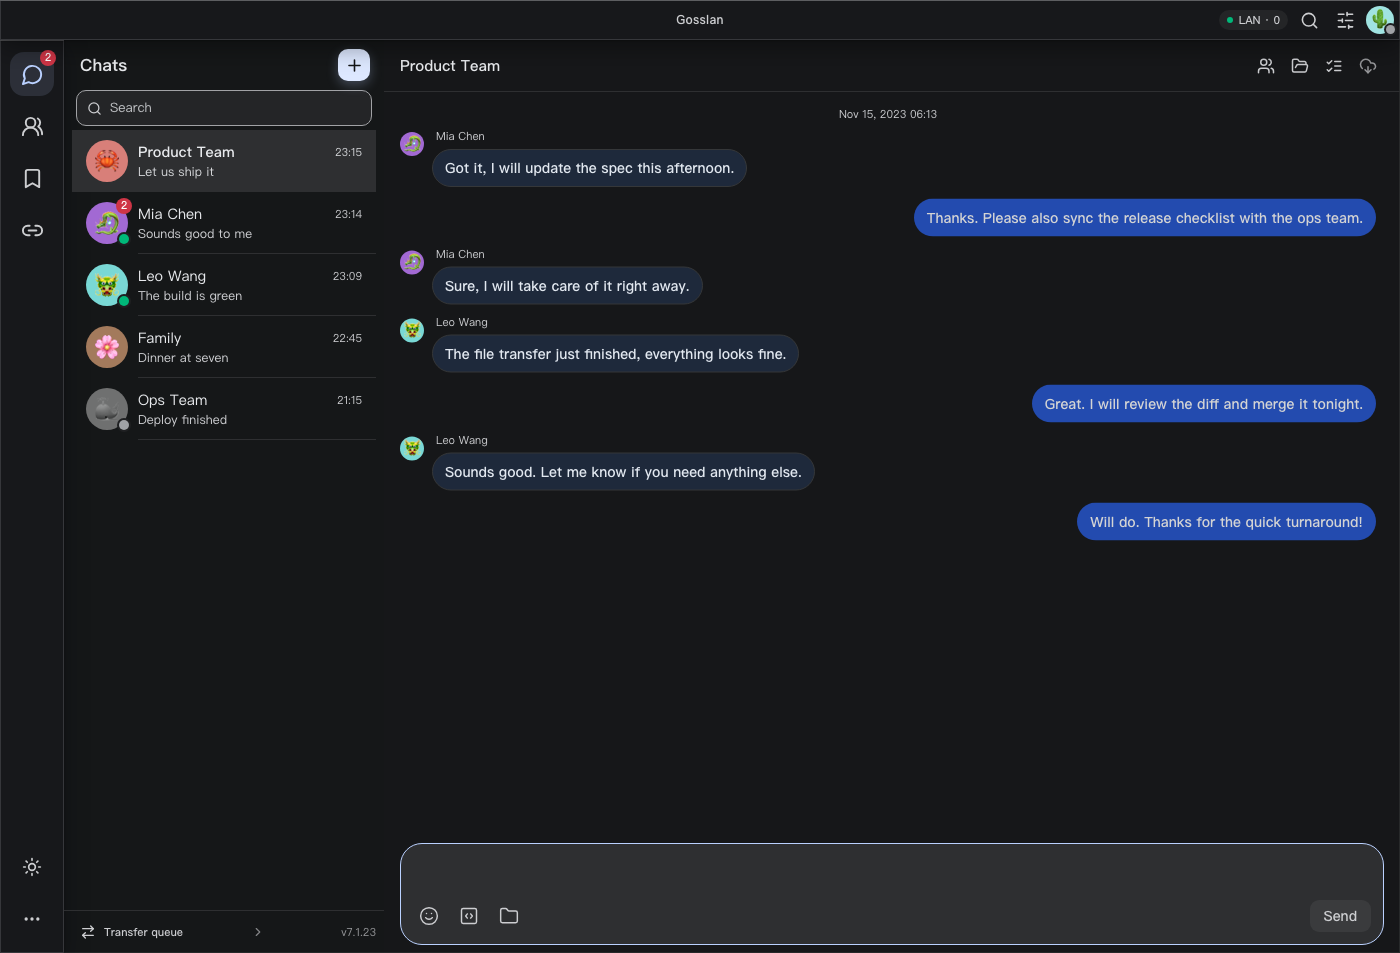
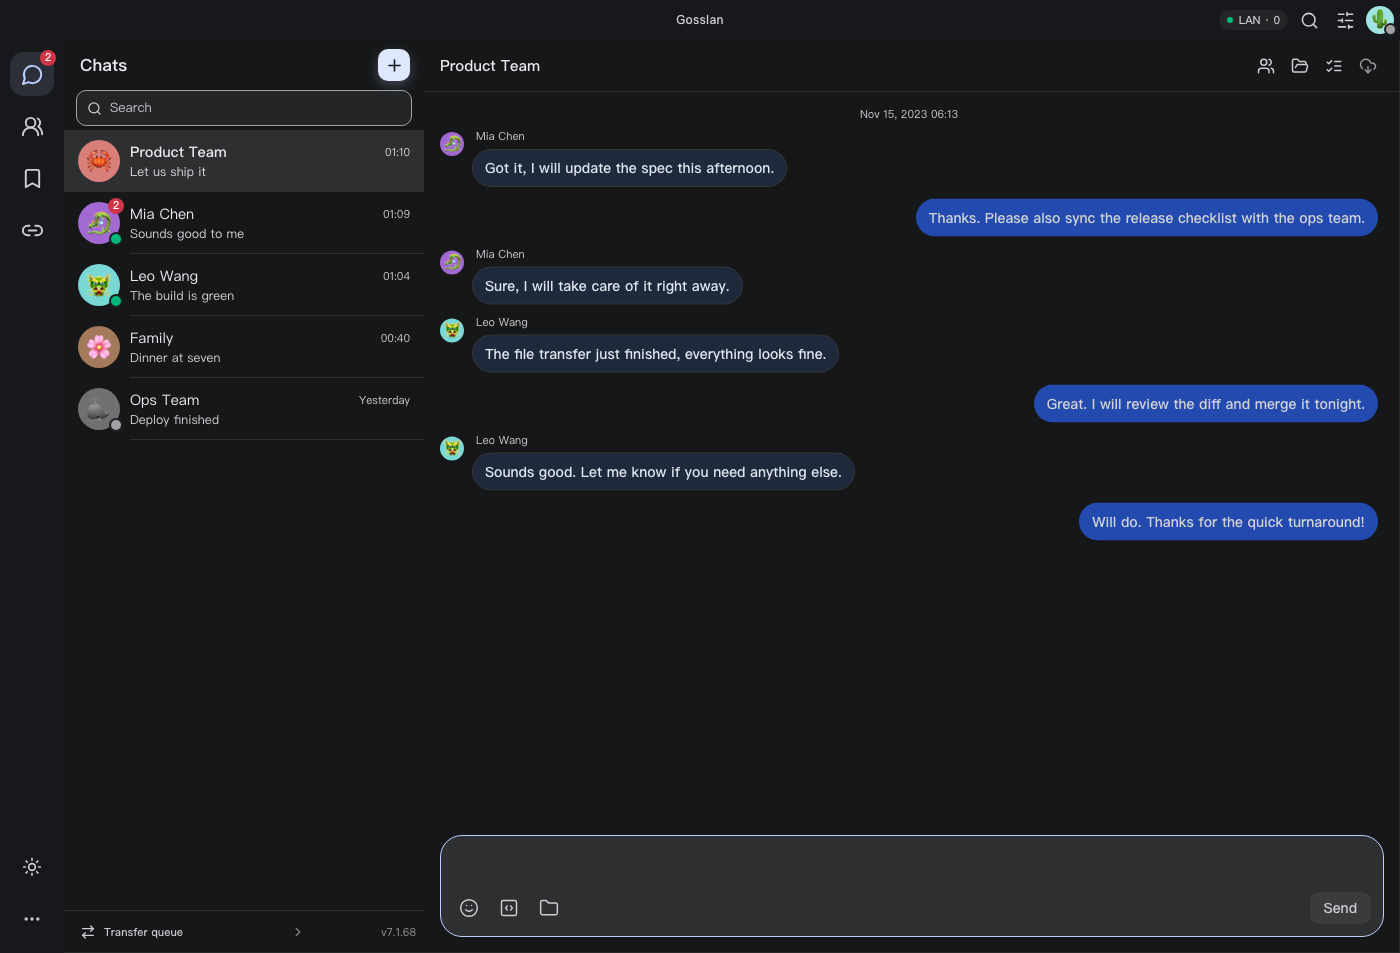
fix(topology): 点节点点不出详情卡（pointerup 在拖拽分支里无条件 return）+ 探针三处对齐 [impact]
Version-Bump: patch

## 真缺陷（探针抓到的，用户可见）
`NetworkTopology.vue` 的 `pointerdown` 只要落在节点上就会把 `draggingNode` 置上（为了支持
「拖节点」），而 `pointerup` 在 `dragged` 分支里**无条件 `return`** —— 于是每一次"点节点"
都走进那一支直接返回，`selectedId` 永远不被赋值 ⇒ **详情卡永远不弹**。
探针读数正是这个形状：整页 `aside` 数量为 0（一次都没渲染过），而节点本体、命中测试、
图例、相机全都正常。修：按住没动就按**点击**处理（`selectedId = dragged.id`），
只有真的拖了（>6px）才走落盘那一支。

## 探针三处对齐（两处语义漂移 + 一处顺序）
· 「首帧距中心 ≤150px」→ 窄视口下本机按设计在**底部中央**（`layoutNeighborhood`：
  `narrow = w < 768` ⇒ ax=0、ay=h/2-margin），实测 dist=241 且方向正下方 ⇒ 那是正确布局。
  改成钉原始病：**不许贴在左上角**（≥60px）。
· 新增「点画布空白处收起详情卡」：卡片是绝对定位的，留着会盖住后面「从角落拖拽」的起点，
  把相机判据带红（顺序问题）。依次试几个候选点，任一能收起即算过。
· 「页面零未捕获错误」：本段原来没有 Tauri 形态的最小 stub ⇒ 组件挂载时 store init 的两个
  `listen`（`onTrayOpenUnread` / `onBotInboxUpdated`）在裸浏览器里冒未捕获 rejection。
  补 stub；并把这类 `transformCallback`（只可能发生在没有 `__TAURI_INTERNALS__` 的环境）
  单独分桶计数，不混进产品错误。采集器同时带上调用栈（这次就是靠它一次定位的）。

## 验证
`GOSSLAN_PROBE_NO_SANDBOX=1 node scripts/check-ui-runtime.mjs --only=topology`
→ **14 条绿 / 0 失败**。`npm test` 全绿；`vue-tsc` 干净。`npm run verify:e2e` 见提交后那一跑。

diff --git a/src/components/NetworkTopology.vue b/src/components/NetworkTopology.vue
@@ -431,6 +431,17 @@ function onHostPointerUp(ev: PointerEvent) {
         [dragged.id]: { x: dragged.x ?? 0, y: dragged.y ?? 0 },
       };
       void persistLayout();
+    } else {
+      /**
+       * ⚠ 按住没动 = **点击这个节点**（2026-11-22 修，探针抓到的真缺陷）。
+       *
+       * 这里以前是无条件 `return` —— 而 `pointerdown` 只要落在节点上就会把
+       * `draggingNode` 置上（为了支持"拖节点"），于是**每一次点节点都走进这一支、
+       * 直接返回** ⇒ `selectedId` 永远不被赋值 ⇒ 详情卡永远不弹。
+       * 探针的读数正是这个形状：`asideCount: 0`（整页一个 aside 都没渲染过），
+       * 而节点本体、命中测试、图例全都正常。
+       */
+      selectedId.value = dragged.id;
     }
     dragMoved = false;
     return;

diff --git a/CHANGELOG.md b/CHANGELOG.md
@@ -14,6 +14,22 @@
 
 ## [Unreleased]
 
+## [7.1.69] - 2026-11-22
+
+### 拓扑：点节点不出详情卡（真缺陷，探针抓到的）
+- `pointerdown` 落在节点上会把 `draggingNode` 置上（为了支持「拖节点」），而 `pointerup`
+  在 `dragged` 分支里**无条件 `return`** ⇒ `selectedId` 永远不被赋值 ⇒ 点节点永远选不中、
+  详情卡永远不弹。探针读数正是这个形状：整页 `aside` 数量为 0，而节点本体/命中测试/图例
+  全都正常。修：按住没动就按**点击**处理（`selectedId = dragged.id`）。
+- 顺带两条探针判据与产品语义对齐（不是产品红）：
+  · 首帧位置原来钉「距中心 ≤150px」——窄视口下本机**按设计在底部中央**（`narrow = w < 768`），
+    必然红；改成钉原始病「不许贴左上角」。
+  · 「点节点进详情卡」之后补一条「点画布空白处收起」，否则卡片会一直压在图区上，
+    连带把后面「从角落拖拽」的相机判据一起带红（探针顺序问题，不是产品）。
+- 探针环境自身两处修正：拓扑段补上 Tauri 形态的最小 stub（否则组件挂载时 store init 的
+  两个 `listen` 会冒未捕获 rejection —— 那是"裸浏览器没有宿主"，不是产品缺陷，已单独分桶计数）；
+  页面侧采集器带上调用栈（下次这类错误不用再多跑一轮才定位）。
+
 ## [7.1.68] - 2026-11-22
 
 ### 接收目录历史：改过下载目录之后，旧目录里的文件不再被判「不在本机」
